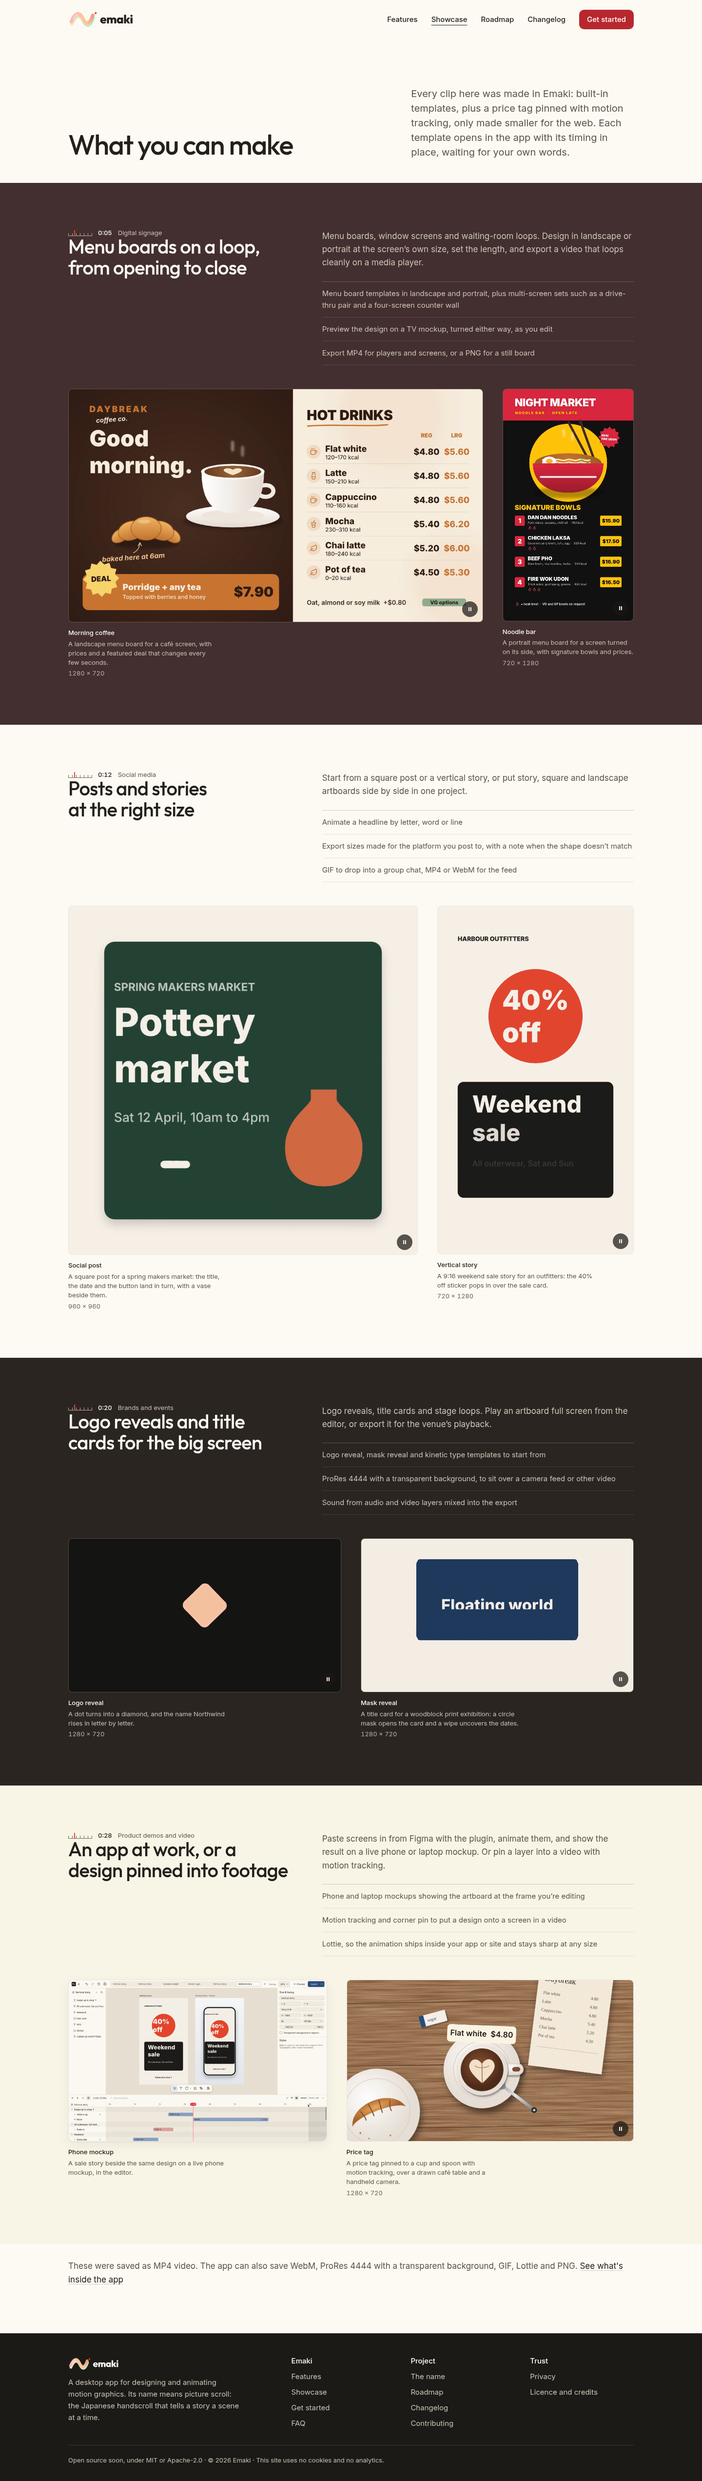
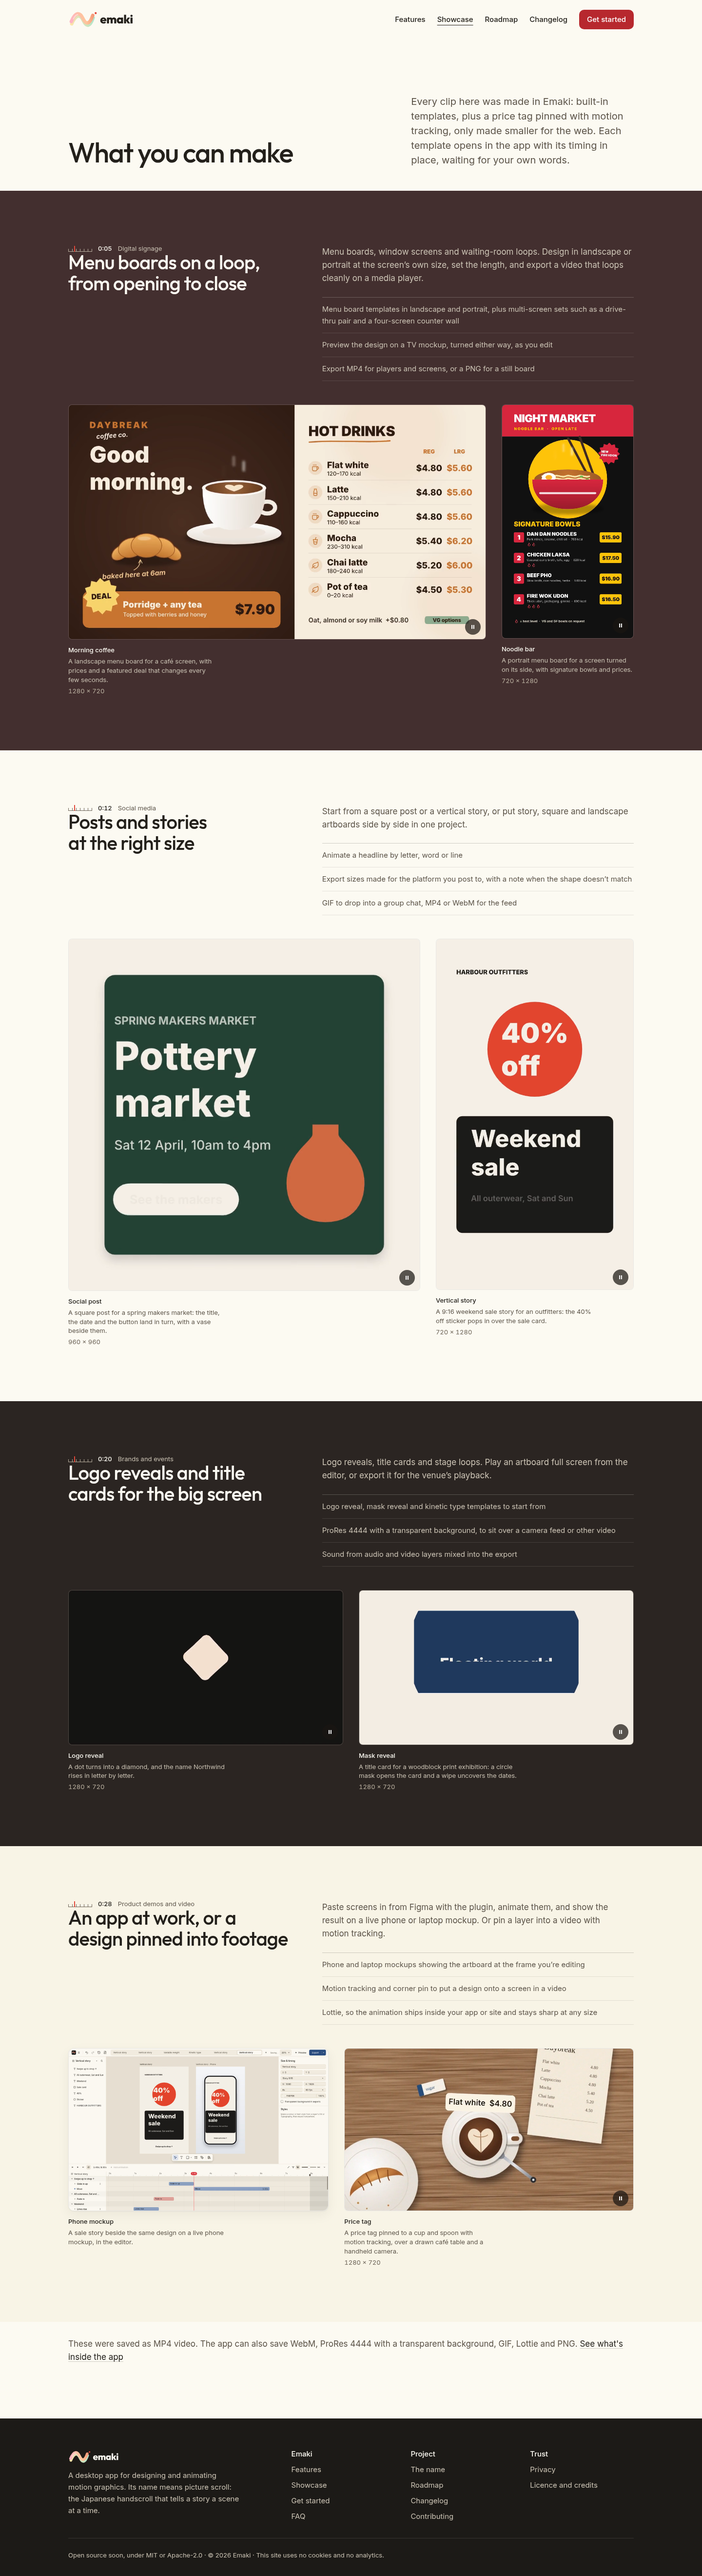
Spacing: one 4 px scale with named roles, applied across every band and page
Band padding 64 / 96 / 112 px (phone / 600 / 1024), heading to content 32 /
48, groups 48 / 64, grid items 24 / 32, columns 32 / 48 / 64, cards 24 / 32,
captions 12. Replaces the fluid clamp() and rem one-offs (hero, legend,
scenes, clip rows, timeline rows, export table, Also in the app, Get Emaki,
footer, header, Showcase, inner page heads, prose). Retake after shots.

Claude-Session: https://claude.ai/code/session_01JCPfpm2a8BnAonXMXPfX45

diff --git a/src/styles/global.css b/src/styles/global.css
@@ -35,6 +35,27 @@
   --shadow: 0 1px 2px rgb(35 32 27 / 0.05), 0 8px 24px rgb(35 32 27 / 0.06);
 
   --gutter: 16px;
+
+  /* Spacing scale, on a 4 px grid. Raw steps, then the roles that use them;
+     the roles step up at 600 and 1024 px (never fluid, so every value stays on
+     the grid). Same kind of thing, same role, on every band and page. */
+  --s-1: 4px;
+  --s-2: 8px;
+  --s-3: 12px;
+  --s-4: 16px;
+  --s-5: 24px;
+  --s-6: 32px;
+  --s-7: 48px;
+  --s-8: 64px;
+  --s-9: 96px;
+  --s-10: 112px;
+  --band-y: 64px; /* top and bottom of every band */
+  --head-gap: 32px; /* a section's heading block to its content */
+  --group-gap: 48px; /* between groups inside a band (rows, sub-blocks) */
+  --grid-gap: 24px; /* between items in grids and rows of pictures */
+  --col-gap: 32px; /* between the two columns of a split */
+  --card-pad: 24px; /* inside cards */
+  --caption-gap: 12px; /* a picture to its caption */
   --font-text: 'Inter Variable', system-ui, -apple-system, 'Segoe UI', sans-serif;
   --font-head: 'Outfit', var(--font-text);
   --font-mono: ui-monospace, 'SFMono-Regular', Menlo, Consolas, monospace;
@@ -46,11 +67,19 @@
 @media (min-width: 600px) {
   :root {
     --gutter: 24px;
+    --band-y: var(--s-9);
+    --head-gap: var(--s-7);
+    --group-gap: var(--s-8);
+    --col-gap: var(--s-7);
   }
 }
 @media (min-width: 1024px) {
   :root {
     --gutter: 32px;
+    --band-y: var(--s-10);
+    --grid-gap: var(--s-6);
+    --col-gap: var(--s-8);
+    --card-pad: var(--s-6);
   }
 }
 
@@ -139,7 +168,7 @@ h3 {
   font-weight: 500;
   line-height: 1.08;
   letter-spacing: -0.02em;
-  margin: 0 0 0.75rem;
+  margin: 0 0 var(--s-3);
   text-wrap: balance;
 }
 h1 {
@@ -157,7 +186,7 @@ h3 {
   letter-spacing: 0;
 }
 p {
-  margin: 0 0 1rem;
+  margin: 0 0 var(--s-4);
   text-wrap: pretty;
 }
 
@@ -281,7 +310,7 @@ time {
 /* The title block on every inner page. The widths sit on the children, never on
    the block, so it lines up with the content column when it is also a .wrap. */
 .page-head {
-  padding-block: clamp(48px, 8vw, 96px) clamp(32px, 5vw, 48px);
+  padding-block: var(--band-y) var(--head-gap);
 }
 .page-head h1 {
   font-size: clamp(2.25rem, 5vw, 3.5rem);
@@ -308,7 +337,7 @@ time {
   }
 }
 .page-body {
-  padding-bottom: clamp(3rem, 8vw, 6rem);
+  padding-bottom: var(--band-y);
 }
 
 code {
@@ -326,10 +355,10 @@ code {
 }
 .prose h2 {
   font-size: clamp(1.4rem, 2.6vw, 1.75rem);
-  margin-top: 2.75rem;
+  margin-top: var(--s-7);
 }
 .prose h3 {
-  margin-top: 1.75rem;
+  margin-top: var(--s-6);
 }
 .prose p,
 .prose li {
@@ -341,14 +370,14 @@ code {
 .prose ul,
 .prose ol {
   padding-left: 1.2rem;
-  margin: 0 0 1rem;
+  margin: 0 0 var(--s-4);
 }
 .prose li + li {
-  margin-top: 0.35rem;
+  margin-top: var(--s-2);
 }
 .prose pre {
-  margin: 0 0 1rem;
-  padding: 1rem 1.15rem;
+  margin: 0 0 var(--s-4);
+  padding: var(--s-4) var(--s-4);
   overflow-x: auto;
   border-radius: var(--radius);
   background: var(--surface);
@@ -370,7 +399,7 @@ code {
   width: 100%;
   border-collapse: collapse;
   font-size: 0.95rem;
-  margin: 0 0 1rem;
+  margin: 0 0 var(--s-4);
 }
 .table th,
 .table td {
@@ -389,7 +418,7 @@ code {
 .table-wrap {
   overflow-x: auto;
   border-top: 1px solid var(--border-strong);
-  margin: 0 0 1rem;
+  margin: 0 0 var(--s-4);
 }
 .table-wrap .table {
   margin: 0;
@@ -412,7 +441,7 @@ code {
   padding: 0 0 0 16px;
   border-left: 2px solid var(--accent);
   color: var(--text);
-  margin: 0 0 1.5rem;
+  margin: 0 0 var(--s-5);
 }
 .note-box p {
   color: var(--text);
@@ -430,7 +459,7 @@ code {
   }
   .table.stack tr {
     display: block;
-    padding: 0.5rem 0;
+    padding: var(--s-2) 0;
     border-bottom: 1px solid var(--border);
   }
   .table-wrap .table.stack tr:last-child {

diff --git a/README.md b/README.md
@@ -106,6 +106,12 @@ kinari-iro #F3ECDB for the light ones, gofun-iro #FFFFFB for raised surfaces.
 The one accent is the logo's sun, beni-hi #E2483A, for marks only; where it
 carries text it is akane-iro #B7282E. The hero shows the real editor
 screenshot (`mockups.png`).
+Spacing comes from one scale in `global.css` (4 px grid: `--s-1` to
+`--s-10`, 4 to 112 px) and its roles: `--band-y` (band top and bottom: 64,
+96, 112 px at phone, 600 and 1024 px), `--head-gap` (32 then 48),
+`--group-gap` (48 then 64), `--grid-gap` (24 then 32), `--col-gap` (32, 48,
+64), `--card-pad` (24 then 32) and `--caption-gap` (12). Use the role, not a
+raw number, so the same kind of thing gets the same space everywhere.
 The audit behind the layout is in `docs/overhaul-audit.md`.
 
 ## The tracking clip
